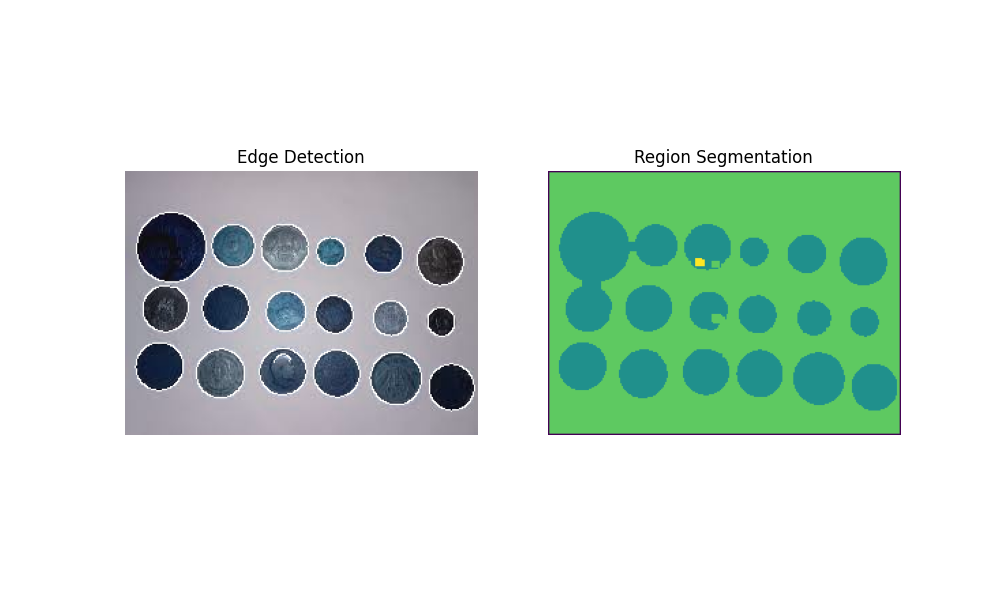
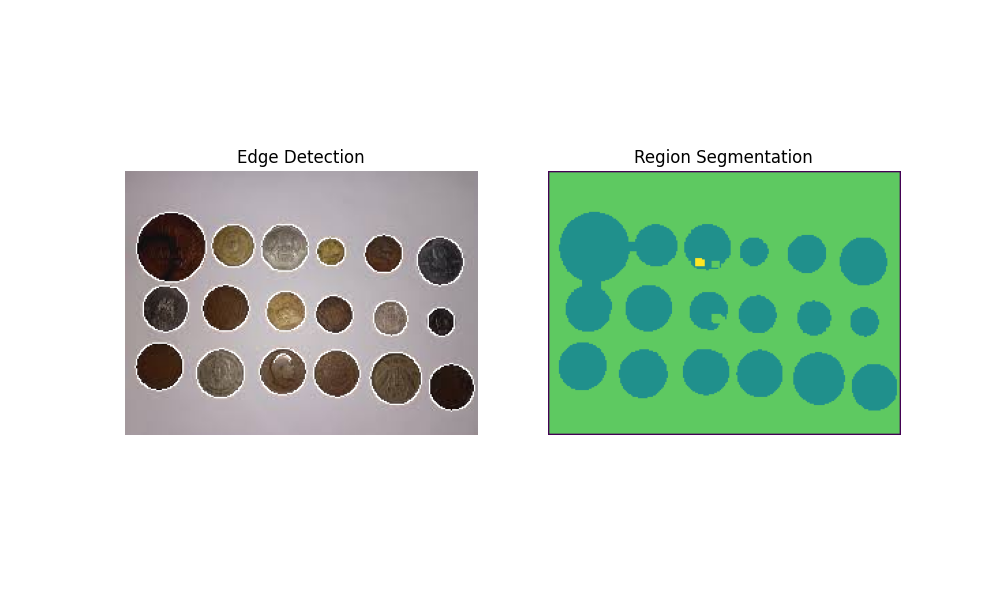
Small change in part 1 output.

Changed region(s): [[0.124, 0.48, 0.465, 0.69], [0.124, 0.36, 0.279, 0.48], [0.279, 0.39, 0.403, 0.45]]

diff --git a/Part1.py b/Part1.py
@@ -24,12 +24,13 @@ edges_colored = cv2.cvtColor(edges, cv2.COLOR_GRAY2BGR)
 
 # Outline the edges in the original image
 combined_image = cv2.add(image, edges_colored)
+combined_image_rgb = cv2.cvtColor(combined_image, cv2.COLOR_BGR2RGB)
 
 # Display result of Canny edge detection
 plt.figure(figsize=(10, 6))
 plt.subplot(1, 2, 1)
 plt.title("Edge Detection")
-plt.imshow(combined_image)
+plt.imshow(combined_image_rgb)
 plt.axis("off")
 
 # Obtain the binary image from grayscale image
